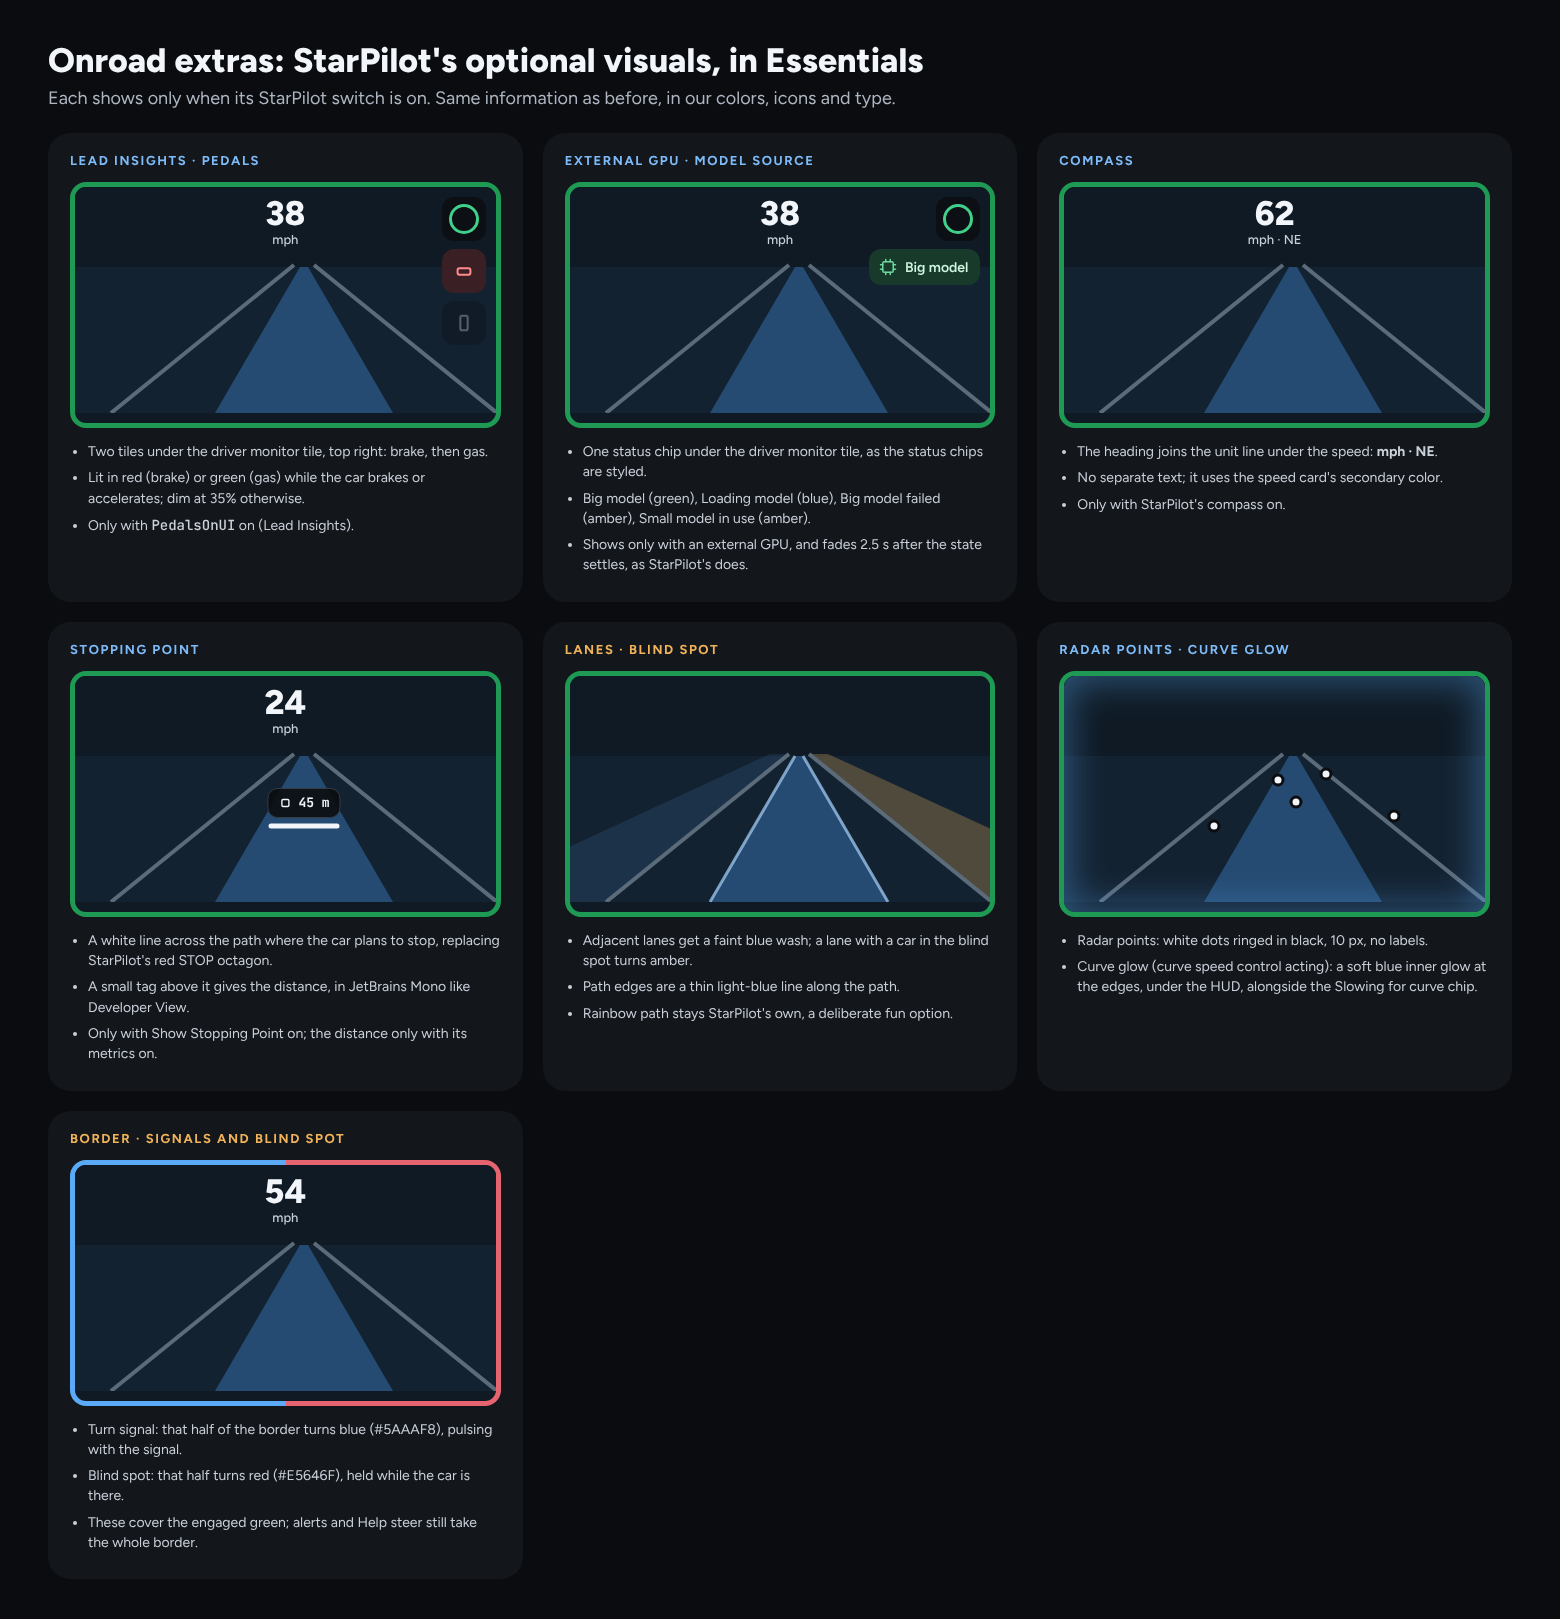
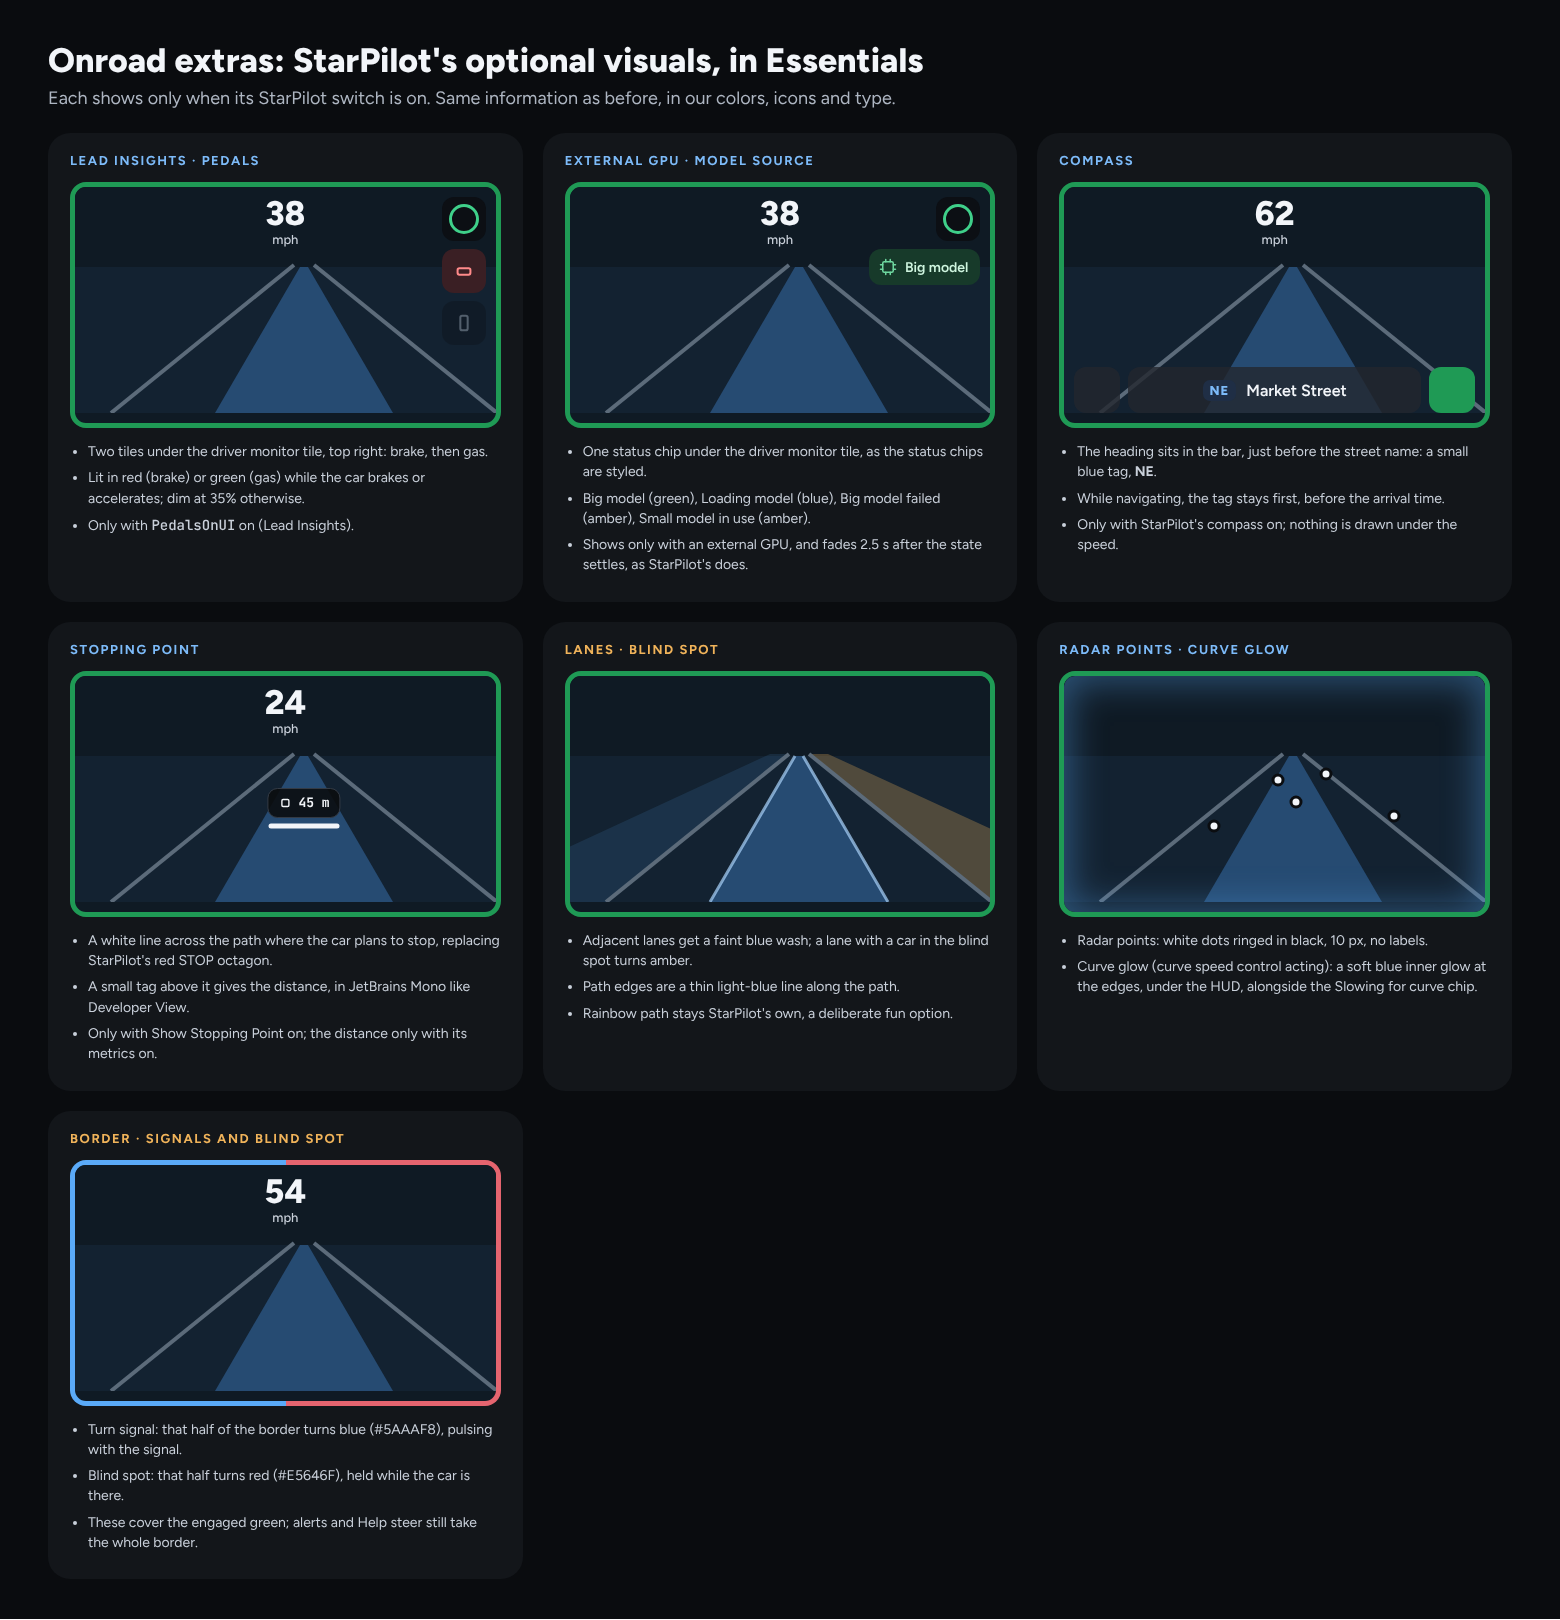
Onroad extras mock: compass beside the street name
The heading is a small blue tag in the bar, just before the street name
(and before the arrival time while navigating), instead of under the speed.

Claude-Session: https://claude.ai/code/session_01R4pPc2hcx88Dbjjec1p8WC

Changed region(s): [[0.6769, 0.216, 0.9538, 0.3395], [0.8, 0.1235, 0.8308, 0.1543]]

diff --git a/selfdrive/ui/tandem/design/onroadextras.html b/selfdrive/ui/tandem/design/onroadextras.html
@@ -58,9 +58,10 @@ a{color:#7DBBF9}a:hover{color:#A9D3FB}
           <path d="M225 80 L233 80 L318 226 L140 226 Z" fill="#3A73B3" fill-opacity="0.5"></path>
           
         </svg>
-        <div style="position: absolute; left: 50%; top: 10px; transform: translateX(-50%); text-align: center; font-weight: 800; font-size: 34px; line-height: 1;">62<div style="font-size: 13px; font-weight: 500; color: #C9D0DA; margin-top: 2px;">mph · NE</div></div>
+        <div style="position: absolute; left: 50%; top: 10px; transform: translateX(-50%); text-align: center; font-weight: 800; font-size: 34px; line-height: 1;">62<div style="font-size: 13px; font-weight: 500; color: #C9D0DA; margin-top: 2px;">mph</div></div>
+        <div style="position: absolute; left: 10px; right: 10px; bottom: 10px; height: 46px; display: flex; gap: 8px;"><div style="width: 46px; border-radius: 12px; background: #23272ECC;"></div><div style="flex-grow: 1; border-radius: 12px; background: #23272ECC; display: flex; align-items: center; justify-content: center; gap: 10px; font-size: 16px; font-weight: 600;"><span style="font-size: 13px; font-weight: 800; letter-spacing: 1px; color: #7DBBF9; background: #1F2E45; border-radius: 7px; padding: 3px 7px;">NE</span><span>Market Street</span></div><div style="width: 46px; border-radius: 12px; background: #1F9A55;"></div></div>
       </div>
-      <ul style="margin: 0; padding-left: 18px; font-size: 14px; color: #C9D0DA; line-height: 1.45;"><li style="margin: 0 0 6px 0;">The heading joins the unit line under the speed: <b>mph · NE</b>.</li><li style="margin: 0 0 6px 0;">No separate text; it uses the speed card's secondary color.</li><li style="margin: 0 0 6px 0;">Only with StarPilot's compass on.</li></ul>
+      <ul style="margin: 0; padding-left: 18px; font-size: 14px; color: #C9D0DA; line-height: 1.45;"><li style="margin: 0 0 6px 0;">The heading sits in the bar, just before the street name: a small blue tag, <b>NE</b>.</li><li style="margin: 0 0 6px 0;">While navigating, the tag stays first, before the arrival time.</li><li style="margin: 0 0 6px 0;">Only with StarPilot's compass on; nothing is drawn under the speed.</li></ul>
     </div>
     <div style="background: #13161A; border-radius: 22px; padding: 20px 22px; display: flex; flex-direction: column; gap: 14px;">
       <span style="font-size: 13px; font-weight: 700; letter-spacing: 1.6px; color: #7DBBF9;">STOPPING POINT</span>
